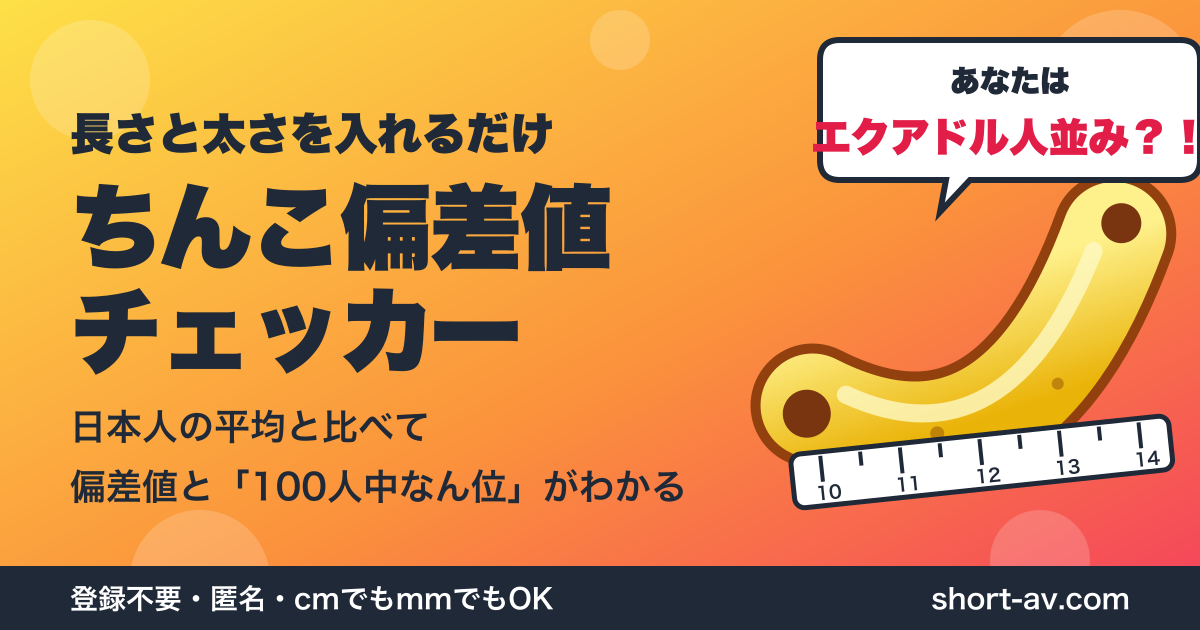
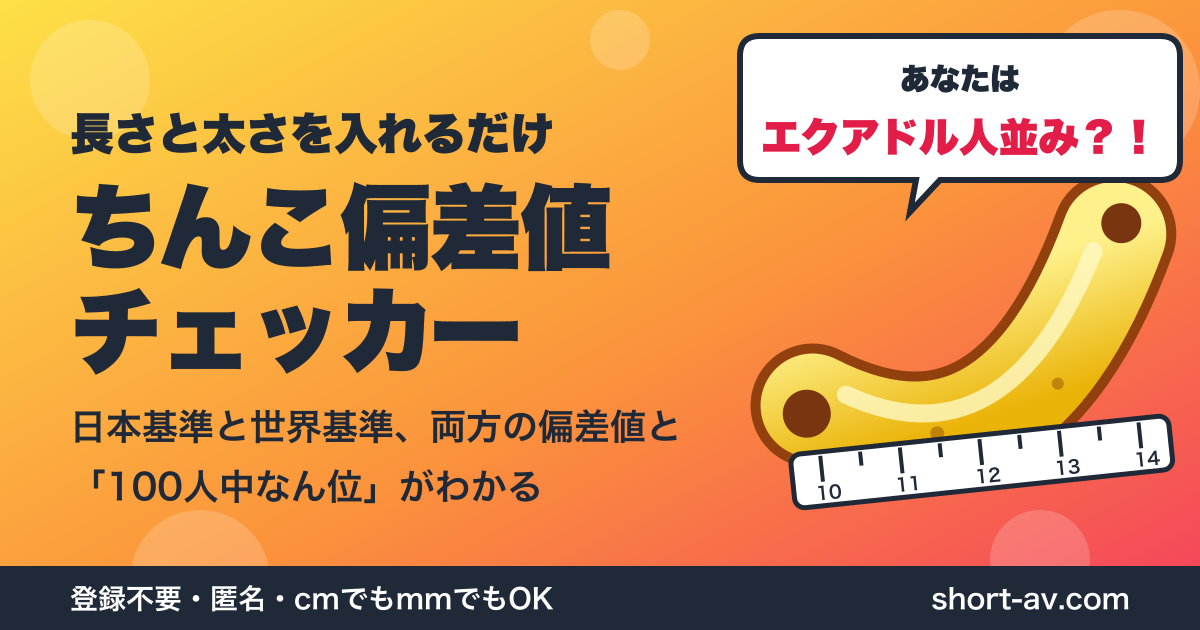
feat: 偏差値チェッカーに世界基準の偏差値を追加し、題名を「ちんこ偏差値チェッカー」に。OG 画像の吹き出しと文言を調整
- 結果に世界基準（Veale ら 2015 の平均・標準偏差）の偏差値（総合・長さ・太さ）を日本基準の下に表示。X の投稿文にも
- 記事の題名を「ちんこ偏差値チェッカー」に（長くて端末によって改行が変だった）
- OG 画像: 吹き出しを広げて「エクアドル人並み？！」がはみ出ないように、左の説明を「日本基準と世界基準、両方の偏差値と『100人中なん位』がわかる」に

Changed region(s): [[0.6167, 0.0302, 1.0, 0.3016], [0.0617, 0.6333, 0.5858, 0.8143], [0.74, 0.2714, 0.8325, 0.3317]]

diff --git a/lib/articles/content/size-comparison-tool.ts b/lib/articles/content/size-comparison-tool.ts
@@ -2,8 +2,8 @@ import type { Article } from '../types';
 
 export const article: Article = {
   slug: 'size-comparison-tool',
-  title: 'ペニスサイズ偏差値チェッカー - 日本人の平均と比べて100人中なん位か',
-  description: '勃起時の長さと太さを入れるだけで、日本人の目安値と比べた偏差値と100人中なん位かが分かるツール（ちんこ偏差値チェッカー）。cm でも mm でも入力でき、コンドームのサイズの目安も表示。登録不要・匿名。結果は統計上の目安で、医学的な診断ではありません。',
+  title: 'ちんこ偏差値チェッカー',
+  description: 'ちんこ偏差値チェッカー: 勃起時の長さと太さを入れるだけで、日本基準と世界基準（海外の研究の平均）の両方の偏差値と、100人中なん位かが分かるツール。cm でも mm でも入力でき、コンドームのサイズの目安も表示。登録不要・匿名。結果は統計上の目安で、医学的な診断ではありません。',
   content: `
 <script src="https://cdn.jsdelivr.net/npm/chart.js@4.4.0/dist/chart.umd.min.js"></script>
 
@@ -356,6 +356,14 @@ export const article: Article = {
   text-align: center;
   padding: 8px 0 16px;
 }
+.dev-world {
+  color: #bfdbfe;
+  font-weight: 700;
+  font-size: 1.05rem;
+  margin-bottom: 10px;
+}
+.dev-world span#worldDeviation { color: #fff; font-size: 1.5rem; font-weight: 800; }
+.dev-world-sub { color: #93c5fd; font-weight: 500; font-size: 0.85rem; margin-left: 6px; }
 .rank-tag {
   display: inline-block;
   background: #fde047;
@@ -441,7 +449,7 @@ export const article: Article = {
 </style>
 
 <div class="size-tool-container">
-  <p class="tool-lead">勃起時の長さと太さを入れるだけで、日本人の目安値と比べた<strong>偏差値</strong>と、<strong>100人中なん位か</strong>、そして「AV男優並み」「日本人の平均並み」のどれにあたるかが分かります。登録不要・匿名です。結果は統計上の目安で、医学的な診断ではありません。</p>
+  <p class="tool-lead">勃起時の長さと太さを入れるだけで、<strong>日本基準と世界基準の両方の偏差値</strong>と、<strong>100人中なん位か</strong>、そして「AV男優並み」「日本人の平均並み」のどれにあたるかが分かります。登録不要・匿名です。結果は統計上の目安で、医学的な診断ではありません。</p>
 
   <div class="tool-card" id="inputCard">
     <h3>サイズを入力してください（勃起時）</h3>
@@ -493,8 +501,9 @@ export const article: Article = {
       <h3 class="result-title">あなたの結果</h3>
 
       <div class="dev-hero">
-        <div class="dev-label">総合の偏差値</div>
+        <div class="dev-label">総合の偏差値（日本基準）</div>
         <div class="dev-main" id="overallDeviation">50</div>
+        <div class="dev-world">世界基準では <span id="worldDeviation">50</span><span class="dev-world-sub">（長さ <span id="worldLengthDeviation">50</span>・太さ <span id="worldGirthDeviation">50</span>）</span></div>
         <div class="rank-tag">あなたは <span id="rankTag">日本人の平均並み</span></div>
         <div class="world-compare" id="worldCompare"></div>
         <div class="country-compare" id="countryCompare"></div>
@@ -555,7 +564,7 @@ export const article: Article = {
 
     <div class="disclaimer">
       <div class="disclaimer-text">
-        ※ 偏差値・順位は、日本人の目安値（長さ 124mm・直径 36mm）を正規分布と仮定して計算したおおよその位置です。実際の分布とは異なる場合があります<br>
+        ※ 偏差値・順位は、日本の目安値（長さ 124mm・直径 36mm）と海外の研究の平均（Veale ら 2015: 長さ 131mm・直径 37.1mm）を正規分布と仮定して計算したおおよその位置です。実際の分布とは異なる場合があります<br>
         ※ 医学的な診断ではありません。サイズや機能に悩みがある場合は泌尿器科で相談してください<br>
         ※ 「〇〇の平均並み」は、WorldData.info「Average penis size by country」（2023年11月時点・88か国）の勃起時の長さの平均のうち17か国と比べたものです。国によって調査方法（自己申告か医療者の測定か）が違い、国どうしの差より個人差のほうが大きいので、話のタネ程度にご覧ください
       </div>
@@ -580,7 +589,8 @@ export const article: Article = {
   // 日本人の目安値（mm）。国内の複数の報告（勃起時の長さはおおむね12〜14cm）を参考にした目安で、単一の調査の値ではない
   var JP = { lengthMean: 124, lengthStd: 18, diameterMean: 36, diameterStd: 3.6 };
   // 海外の研究の平均（Veale ら 2015 のメタ分析。医療者が測定）: 長さ 131mm・直径 37.1mm
-  var WORLD = { lengthMean: 131, diameterMean: 37.1 };
+  // 標準偏差: 長さ 1.66cm、外周 1.10cm（直径に直すと約 3.5mm）
+  var WORLD = { lengthMean: 131, lengthStd: 16.6, diameterMean: 37.1, diameterStd: 3.5 };
   // 国ごとの勃起時の長さの平均（cm）。WorldData.info「Average penis size by country」（2023年11月25日時点、88か国）のうち
   // 上位・下位5か国と目立った国。調査方法（自己申告か医療者の測定か）が国によって違うため、あくまで目安
   var COUNTRIES = [
@@ -729,6 +739,9 @@ export const article: Article = {
     var lengthDev = deviation(lengthMm, JP.lengthMean, JP.lengthStd);
     var girthDev = deviation(diameter, JP.diameterMean, JP.diameterStd);
     var overallDev = Math.round((lengthDev + girthDev) / 2);
+    var worldLengthDev = deviation(lengthMm, WORLD.lengthMean, WORLD.lengthStd);
+    var worldGirthDev = deviation(diameter, WORLD.diameterMean, WORLD.diameterStd);
+    var worldDev = Math.round((worldLengthDev + worldGirthDev) / 2);
     var lengthRank = Math.min(100, Math.max(1, Math.round(100 - lengthPercentile + 1)));
     var diameterRank = Math.min(100, Math.max(1, Math.round(100 - diameterPercentile + 1)));
     var avgPercentile = (lengthPercentile + diameterPercentile) / 2;
@@ -736,6 +749,9 @@ export const article: Article = {
     var topPct = function(p) { return Math.max(1, Math.round(100 - p)); };
 
     document.getElementById('overallDeviation').textContent = overallDev;
+    document.getElementById('worldDeviation').textContent = worldDev;
+    document.getElementById('worldLengthDeviation').textContent = worldLengthDev;
+    document.getElementById('worldGirthDeviation').textContent = worldGirthDev;
     document.getElementById('lengthDeviation').textContent = lengthDev;
     document.getElementById('girthDeviation').textContent = girthDev;
     document.getElementById('lengthRank').textContent = lengthRank + '位';
@@ -754,14 +770,14 @@ export const article: Article = {
     document.getElementById('condomSize').textContent = recommendCondomSize(diameter);
 
     // X に投稿する文（数字だけ。入力した mm は入れない）
-    lastShareText = 'ペニスサイズ偏差値チェッカーで測ったら、偏差値 ' + overallDev + '（長さ ' + lengthDev + '・太さ ' + girthDev + '）。日本人男性100人中 ' + Math.round((lengthRank + diameterRank) / 2) + '位くらいで「' + rankInfo.tag + '」でした。' + (compare.share ? compare.share + '。' : '') + '長さは' + country[0] + 'の平均並み。\\n#ちんこ偏差値チェッカー\\n' + TOOL_URL;
+    lastShareText = 'ちんこ偏差値チェッカーで測ったら、偏差値 ' + overallDev + '（長さ ' + lengthDev + '・太さ ' + girthDev + '）、世界基準では ' + worldDev + '。日本人男性100人中 ' + Math.round((lengthRank + diameterRank) / 2) + '位くらいで「' + rankInfo.tag + '」でした。' + (compare.share ? compare.share + '。' : '') + '長さは' + country[0] + 'の平均並み。\\n#ちんこ偏差値チェッカー\\n' + TOOL_URL;
     document.getElementById('shareX').href = 'https://twitter.com/intent/tweet?text=' + encodeURIComponent(lastShareText);
 
     document.getElementById('resultContainer').classList.remove('result-hidden');
     drawChart(lengthMm, diameter);
     document.getElementById('resultContainer').scrollIntoView({ behavior: 'smooth', block: 'start' });
 
-    track('size_tool_calculate', { deviation: overallDev, level: rankInfo.tag, girth_type: girthType });
+    track('size_tool_calculate', { deviation: overallDev, world_deviation: worldDev, level: rankInfo.tag, girth_type: girthType });
 
     // DB の列は整数のため、直径（外周から換算すると小数になる）などは四捨五入して送る
     sendStatisticsData(Math.round(lengthMm), Math.round(diameter), 'erect', document.getElementById('ageInput').value);
@@ -914,10 +930,10 @@ export const article: Article = {
   </div>
 
   <div class="bg-gray-800 border border-gray-700 rounded-lg p-4 mb-6">
-    <div class="font-bold text-white mb-2">■ 海外の研究データ（グラフの比較に使用）</div>
+    <div class="font-bold text-white mb-2">■ 海外の研究データ（世界基準の偏差値とグラフの比較に使用）</div>
     <ul class="list-disc ml-6 space-y-2 text-gray-300">
       <li><strong class="text-white">勃起時の長さ</strong><br>平均 約13.1cm（標準偏差 約1.7cm）</li>
-      <li><strong class="text-white">勃起時の外周</strong><br>平均 約11.7cm（直径に換算すると約37mm）</li>
+      <li><strong class="text-white">勃起時の外周</strong><br>平均 約11.7cm（標準偏差 約1.1cm。直径に換算すると約37mm・標準偏差約3.5mm）</li>
       <li><strong class="text-white">平常時の長さ（参考）</strong><br>平均 約9.2cm</li>
       <li><strong class="text-white">出典</strong><br>Veale ら（2015年）BJU International。医療者が測定した研究を集めたメタ分析</li>
     </ul>
@@ -927,7 +943,7 @@ export const article: Article = {
 
   <h3 class="text-lg md:text-xl font-bold mt-6 mb-3 text-white">偏差値と「100人中なん位」の意味</h3>
 
-  <p class="mb-4 text-gray-300">偏差値は、平均を50、標準偏差1つぶんを10として位置を表した数字です（学校のテストの偏差値と同じ計算）。目安値どおりなら50、平均より標準偏差1つぶん大きければ60、小さければ40になります。総合の偏差値は長さと太さの偏差値の平均です。</p>
+  <p class="mb-4 text-gray-300">偏差値は、平均を50、標準偏差1つぶんを10として位置を表した数字です（学校のテストの偏差値と同じ計算）。目安値どおりなら50、平均より標準偏差1つぶん大きければ60、小さければ40になります。総合の偏差値は長さと太さの偏差値の平均です。「日本基準」は日本の目安値、「世界基準」は海外の研究の平均（Veale ら 2015）をもとに計算しています。</p>
 
   <p class="mb-6 text-gray-300">「100人中なん位」は、同じ分布の100人を大きい順に並べたときのおおよその順位です。偏差値60なら上位16%程度（100人中16位くらい）、偏差値40なら下位16%程度にあたります。</p>
 

diff --git a/docs/x-profile/README.md b/docs/x-profile/README.md
@@ -45,7 +45,7 @@ https://short-av.com
 
 ```
 【ちんこ偏差値チェッカー】
-長さと太さを入れるだけで、日本人の平均と比べた偏差値と、100人中なん位かが分かります。
+長さと太さを入れるだけで、日本基準と世界基準の両方の偏差値と、100人中なん位かが分かります。
 ・登録不要・匿名
 ・cm でも mm でも OK
 ・コンドームのサイズの目安も表示
